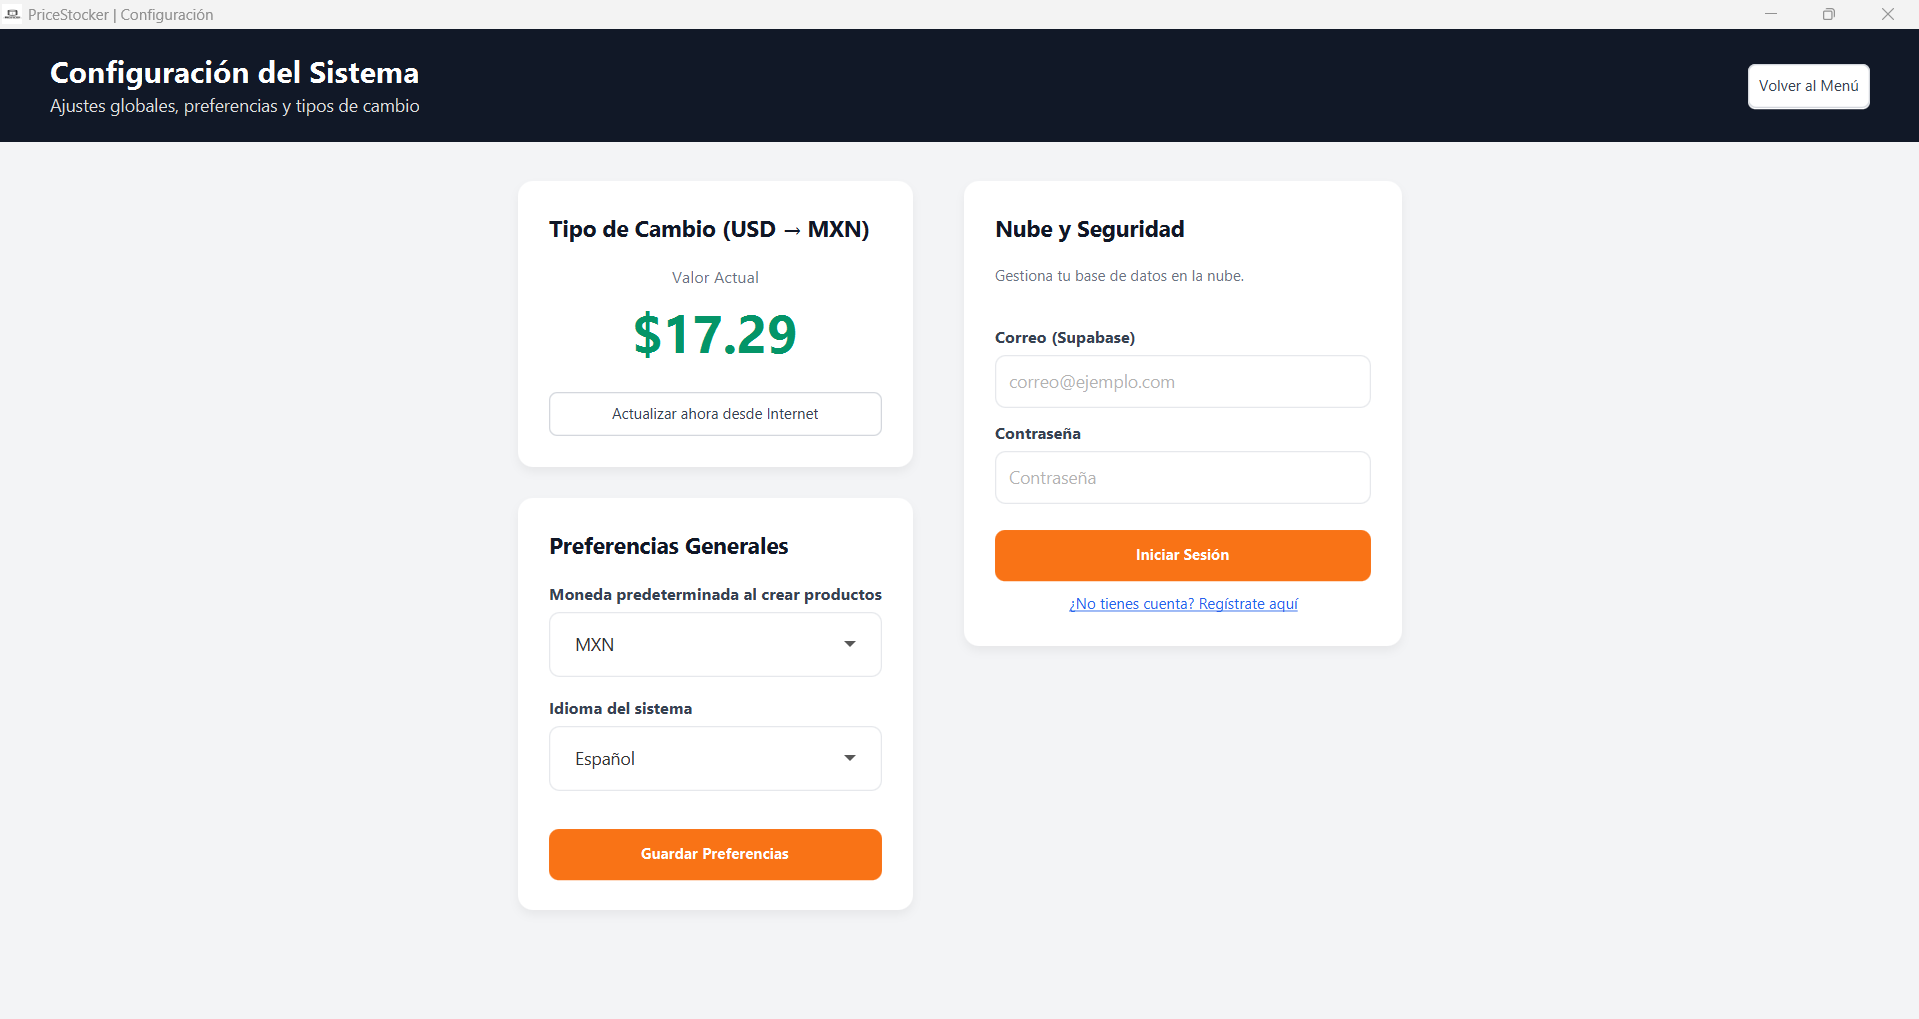
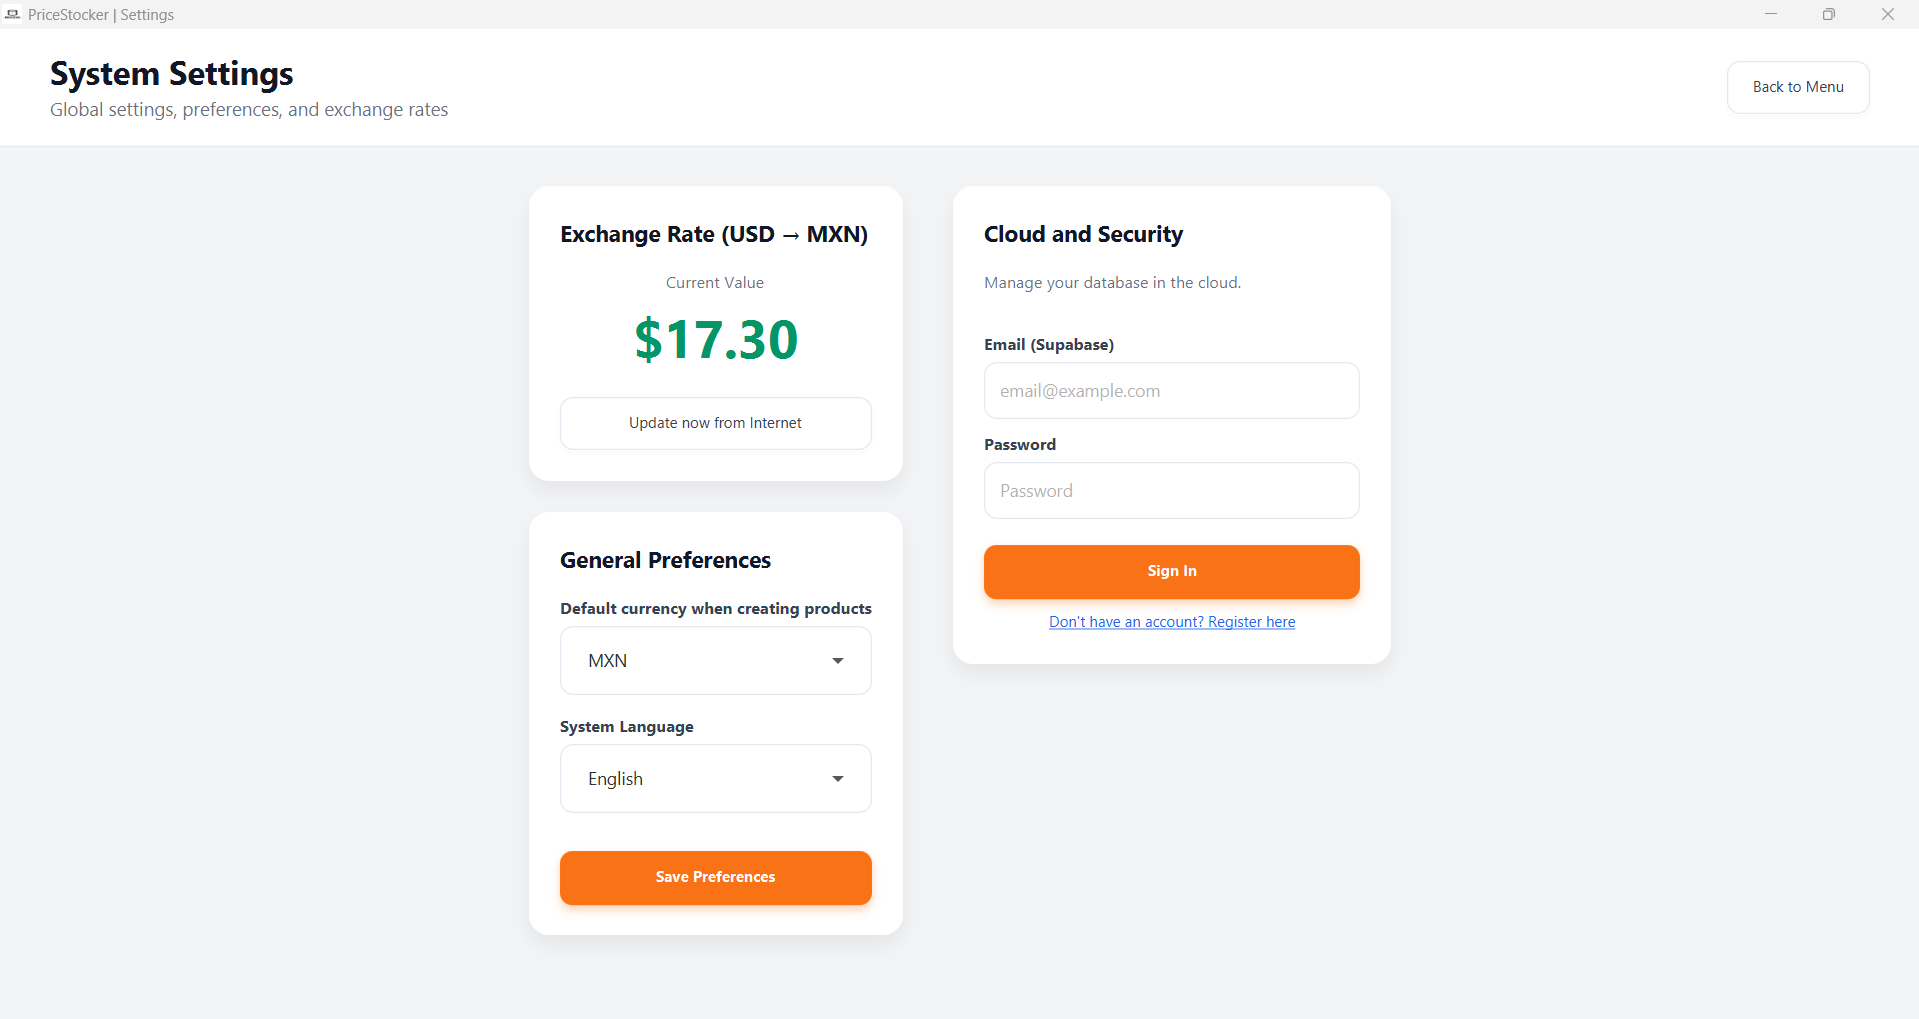
Actualización del PriceStocker

diff --git a/src/data/projects.js b/src/data/projects.js
@@ -97,46 +97,56 @@ export const content = {
         ],
         images: [
           "/proyectos/ps_login.png",
-          "/proyectos/ps_prov.png",
-          "/proyectos/ps_vent.png",
+          "/proyectos/ps_home.png",
+          "/proyectos/ps_prod.png",
+          "/proyectos/ps_sale.png",
+          "/proyectos/ps_history.png",
           "/proyectos/ps_config.png",
-          "/proyectos/ps_users.png",
-          "/proyectos/ps_edit.png",
         ],
         features: [
           {
+            title: "Control de Acceso Avanzado",
+            desc: "Sistema de Login seguro con gestión de usuarios, roles y restricción dinámica de vistas según permisos.",
+          },
+          {
+            title: "Gestión de Productos y Alertas",
+            desc: "Catálogo detallado con soporte para categorización, configuración de impuestos y alertas visuales para productos por debajo del stock mínimo.",
+          },
+          {
             title: "Gestión de Movimientos",
-            desc: "Registro de Compras y Ventas que actualizan el Stock en tiempo real.",
-          },
-          {
-            title: "Gestión de Terceros",
-            desc: "Administración de Clientes, Proveedores, Fabricantes y Empresas.",
-          },
-          {
-            title: "Reportes PDF",
-            desc: "Generación de reportes detallados de compras y ventas.",
+            desc: "Registro de Compras y Ventas que actualizan automáticamente el Stock de los productos en tiempo real.",
           },
           {
             title: "Precios Dinámicos",
-            desc: "Gestión avanzada de costos por tipo de relación con soporte multidivisa (MXN/USD).",
+            desc: "Gestión avanzada de costos por tipo de relación (Cliente, Proveedor, etc.) con soporte multidivisa (MXN/USD).",
+          },
+          {
+            title: "Gestión de Terceros",
+            desc: "Módulos completos para administrar Clientes, Proveedores, Fabricantes, Empresas y Prestadores de Servicios.",
+          },
+          {
+            title: "Reportes PDF",
+            desc: "Generación de reportes detallados de compras y ventas en formato PDF.",
           },
           {
             title: "Internacionalización (i18n)",
-            desc: "Soporte multiidioma dinámico (Español e Inglés) integrado de forma nativa.",
+            desc: "Soporte multiidioma dinámico (Español e Inglés) integrado nativamente en UI, validaciones y reportes.",
           },
           {
-            title: "Cloud Backup & Sincronización",
-            desc: "Auto-Respaldo silencioso en segundo plano y restauración inteligente.",
+            title: "Cloud Backup & Restauración Inteligente",
+            desc: "Auto-Respaldo silencioso en la nube al cerrar la app y proceso seguro de restauración en caliente.",
           },
         ],
         technologies: [
           "Backend: Java 21 LTS & Spring Boot 3.2.4",
           "UI: JavaFX 23.0.2",
-          "BaaS / Nube: Supabase (Auth y Storage)",
-          "Base de Datos: H2 Database (Modo archivo) & Flyway",
-          "ORM: Hibernate / Spring Data JPA",
-          "Reportes: OpenPDF 1.3.30",
+          "BaaS / Nube: Supabase (Auth y Cloud Storage para respaldos)",
+          "Cliente HTTP: Spring RestClient",
+          "Base de Datos: H2 Database (Modo archivo .mv.db) & Flyway",
+          "ORM & Sesión: Hibernate / Spring Data JPA & java.util.prefs.Preferences",
+          "Reportes e i18n: OpenPDF 1.3.30 & Java ResourceBundle",
           "Testing & CI/CD: JUnit 5, Mockito, GitHub Actions",
+          "Herramientas: Maven, Lombok",
         ],
         repoLink: "https://github.com/vluevano2003/PriceStocker",
         demoLink: "",
@@ -349,46 +359,56 @@ export const content = {
         ],
         images: [
           "/proyectos/ps_login.png",
-          "/proyectos/ps_prov.png",
-          "/proyectos/ps_vent.png",
+          "/proyectos/ps_home.png",
+          "/proyectos/ps_prod.png",
+          "/proyectos/ps_sale.png",
+          "/proyectos/ps_history.png",
           "/proyectos/ps_config.png",
-          "/proyectos/ps_users.png",
-          "/proyectos/ps_edit.png",
         ],
         features: [
           {
+            title: "Advanced Access Control",
+            desc: "Secure login system with user and role management, and dynamic restriction of views based on permissions.",
+          },
+          {
+            title: "Product Management & Alerts",
+            desc: "Detailed catalog with categorization, tax configuration, and visual alerts for low-stock products.",
+          },
+          {
             title: "Movement Management",
-            desc: "Record of Purchases and Sales that update Stock in real-time.",
-          },
-          {
-            title: "Third-Party Management",
-            desc: "Administration of Clients, Suppliers, Manufacturers, and Companies.",
-          },
-          {
-            title: "PDF Reports",
-            desc: "Generation of detailed purchase and sales reports.",
+            desc: "Complete record of Purchases and Sales that automatically update Stock in real time.",
           },
           {
             title: "Dynamic Pricing",
-            desc: "Advanced cost management by relationship type with multi-currency support (MXN/USD).",
+            desc: "Advanced cost management by relationship type (Client, Supplier, etc.) with multi-currency support (MXN/USD).",
+          },
+          {
+            title: "Third-Party Management",
+            desc: "Comprehensive modules to manage Clients, Suppliers, Manufacturers, Competitors, and Service Providers.",
+          },
+          {
+            title: "PDF Reports",
+            desc: "Generation of detailed purchase and sales reports in PDF format.",
           },
           {
             title: "Internationalization (i18n)",
-            desc: "Dynamic multi-language support (Spanish and English) natively integrated.",
+            desc: "Dynamic multi-language support (Spanish and English) natively integrated across UI, validations, and reports.",
           },
           {
-            title: "Cloud Backup & Sync",
-            desc: "Silent background auto-backup and smart restoration.",
+            title: "Cloud Backup & Smart Restore",
+            desc: "Silent background cloud auto-backup on app close and secure hot-restore process.",
           },
         ],
         technologies: [
           "Backend: Java 21 LTS & Spring Boot 3.2.4",
           "UI: JavaFX 23.0.2",
-          "BaaS / Cloud: Supabase (Auth and Storage)",
-          "Database: H2 Database (File mode) & Flyway",
-          "ORM: Hibernate / Spring Data JPA",
-          "Reports: OpenPDF 1.3.30",
+          "BaaS / Cloud: Supabase (Auth and Cloud Storage for backups)",
+          "HTTP Client: Spring RestClient",
+          "Database: H2 Database (File mode .mv.db) & Flyway",
+          "ORM & Session: Hibernate / Spring Data JPA & java.util.prefs.Preferences",
+          "Reports & i18n: OpenPDF 1.3.30 & Java ResourceBundle",
           "Testing & CI/CD: JUnit 5, Mockito, GitHub Actions",
+          "Tools: Maven, Lombok",
         ],
         repoLink: "https://github.com/vluevano2003/PriceStocker",
         demoLink: "",
